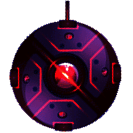
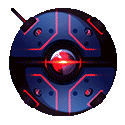
Base structure for Units and Buildings

diff --git a/src/GUI/GamePlaying.py b/src/GUI/GamePlaying.py
@@ -6,63 +6,29 @@ from pygame.rect import Rect
 from pygame.surface import Surface
 
 from GUI.Menu import Menu
+from Utils.Building import Building
+from Utils.Unit import Unit
 
 
 class GamePlaying(Menu):
+    __buildings: list[Building] = []
+    __units: list[Unit] = []
+
     def __init__(self, game):
         Menu.__init__(self, game)
+        # TODO establishing on which team is a player
+        self.__player_team = 0
         self.__fps: int = 60
         self.__background_img: Surface = pygame.transform.scale(pygame.image.load(
             os.path.normpath('resources/img/map_bg.png')), (564, self.game.get_window_height()))
-        self.__x0: int = self.mid_w - self.__background_img.get_width()//2
-
-        self.__red_turret: Surface = pygame.transform.rotate(pygame.transform.scale(pygame.image.load(
-            os.path.normpath('resources/img/red_turret.png')), (120, 120)), 180)
-        self.__blue_turret: Surface = pygame.transform.scale(pygame.image.load(
-            os.path.normpath('resources/img/blue_turret.png')), (120, 120))
-        self.__small_red_turret: Surface = pygame.transform.rotate(pygame.transform.scale(pygame.image.load(
-            os.path.normpath('resources/img/red_turret.png')), (100, 100)), 180)
-        self.__small_blue_turret: Surface = pygame.transform.scale(pygame.image.load(
-            os.path.normpath('resources/img/blue_turret.png')), (100, 100))
-
-        self.__blue_turret_left: Rect = pygame.Rect(
-            self.__x0 + 220 - self.__blue_turret.get_width()//2,
-            self.h(840),
-            self.__blue_turret.get_width(), self.__blue_turret.get_height())
-        self.__blue_turret_right: Rect = pygame.Rect(
-            self.mid_w + (self.mid_w - (self.__x0 + 220 + self.__blue_turret.get_width() // 2)),
-            self.h(840),
-            self.__blue_turret.get_width(), self.__blue_turret.get_height())
-        self.__red_turret_left: Rect = pygame.Rect(
-            self.__x0 + 220 - self.__red_turret.get_width() // 2,
-            self.h(20),
-            self.__red_turret.get_width(), self.__red_turret.get_height())
-        self.__red_turret_right: Rect = pygame.Rect(
-            self.mid_w + (self.mid_w - (self.__x0 + 220 + self.__red_turret.get_width() // 2)),
-            self.h(20),
-            self.__red_turret.get_width(), self.__red_turret.get_height())
-
-        self.__small_blue_turret_left: Rect = pygame.Rect(
-            self.__x0 + 120 - self.__small_blue_turret.get_width() // 2,
-            self.h(740),
-            self.__small_blue_turret.get_width(), self.__small_blue_turret.get_height())
-        self.__small_blue_turret_right: Rect = pygame.Rect(
-            self.mid_w + (self.mid_w - (self.__x0 + 120 + self.__small_blue_turret.get_width() // 2)),
-            self.h(740),
-            self.__small_blue_turret.get_width(), self.__small_blue_turret.get_height())
-        self.__small_red_turret_left: Rect = pygame.Rect(
-            self.__x0 + 120 - self.__small_red_turret.get_width() // 2,
-            self.h(147),
-            self.__small_red_turret.get_width(), self.__small_red_turret.get_height())
-        self.__small_red_turret_right: Rect = pygame.Rect(
-            self.mid_w + (self.mid_w - (self.__x0 + 120 + self.__small_red_turret.get_width() // 2)),
-            self.h(147),
-            self.__small_red_turret.get_width(), self.__small_red_turret.get_height())
+        self.__x0: int = self.mid_w - self.__background_img.get_width() // 2
+        self.create_buildings()
 
     def display_menu(self):
         clock = pygame.time.Clock()
         self.run_display = True
         while self.run_display:
+            self.mouse_pos = pygame.mouse.get_pos()
             clock.tick(self.__fps)
             self.draw()
             self.check_input()
@@ -70,37 +36,31 @@ class GamePlaying(Menu):
             self.blit_screen()
 
     def draw(self):
+        self.game.get_display().fill(self.game.BLACK)
         self.game.get_display().blit(self.__background_img,
                                      (self.mid_w - self.__background_img.get_width() // 2, 0))
-
-        self.game.get_display().blit(self.__blue_turret,
-                                     (self.__blue_turret_left.x, self.__blue_turret_left.y))
-        self.game.get_display().blit(self.__blue_turret,
-                                     (self.__blue_turret_right.x, self.__blue_turret_right.y))
-        self.game.get_display().blit(self.__red_turret,
-                                     (self.__red_turret_left.x, self.__red_turret_left.y))
-        self.game.get_display().blit(self.__red_turret,
-                                     (self.__red_turret_right.x, self.__red_turret_right.y))
-
-        self.game.get_display().blit(self.__small_blue_turret,
-                                     (self.__small_blue_turret_left.x, self.__small_blue_turret_left.y))
-        self.game.get_display().blit(self.__small_blue_turret,
-                                     (self.__small_blue_turret_right.x, self.__small_blue_turret_right.y))
-        self.game.get_display().blit(self.__small_red_turret,
-                                     (self.__small_red_turret_left.x, self.__small_red_turret_left.y))
-        self.game.get_display().blit(self.__small_red_turret,
-                                     (self.__small_red_turret_right.x, self.__small_red_turret_right.y))
-
-        # print(self.__small_red_turret_left.y + self.__small_red_turret.get_height(),
-        # self.__small_blue_turret_left.y, self.game.get_window_height())
+        for building in self.__buildings:
+            building.draw(self.game, self.__player_team)
+        for unit in self.__units:
+            unit.action(self.__buildings, self.__units, self.__player_team)
 
     def check_input(self):
         for event in pygame.event.get():
             if event.type == pygame.KEYDOWN:
                 pass
             elif event.type == pygame.MOUSEBUTTONDOWN:
-                pass
+                self.__units.append(Unit(self.game, self.mouse_pos))
 
-    # Normalizes given height to match the background scaled down to user's screen
-    def h(self, h: int):
-        return int(h/1002 * self.game.get_window_height())
+    def create_buildings(self):
+        self.__buildings.append(Building(True, 0))
+        self.__buildings.append(Building(True, 0, False))
+        self.__buildings.append(Building(True, 1))
+        self.__buildings.append(Building(True, 1, False))
+        self.__buildings.append(Building(False, 0))
+        self.__buildings.append(Building(False, 0, False))
+        self.__buildings.append(Building(False, 1))
+        self.__buildings.append(Building(False, 1, False))
+        for building in self.__buildings:
+            building.set_coordinates(self.game, self.__player_team, self.__x0)
+
+

diff --git a/src/Utils/Unit.py b/src/Utils/Unit.py
@@ -1,0 +1,133 @@
+import pygame
+import pygame.mouse
+import os
+import math
+
+from pygame.rect import Rect
+from pygame.surface import Surface
+from Utils.Building import Building
+from pygame.math import Vector2
+
+
+class Unit:
+    __x0: int = 0
+    __bg_width: int = 564
+    __rect: Rect = None
+    __vector: pygame.Vector2 = pygame.Vector2(0, 0)
+    __target = None
+    __target_in_atk_range: bool = False
+    __seeing_range: int = 50
+
+    def __init__(self, game, start_pos, speed: int = 2, atk_range: int = 20, team: int = 0, left: bool = True):
+        self.__angle: int = 0
+        self.__speed: int = speed
+        self.__atk_range: int = atk_range
+        self.__team: int = team
+        self.__left: bool = left
+        self.__img_size: int = 50
+        self.__pos: pygame.math.Vector2 = pygame.math.Vector2(start_pos)
+        self.__game = game
+
+        self.__img: Surface = pygame.transform.scale(pygame.image.load(
+            os.path.normpath('resources/img/spaceship.png')), (self.__img_size, self.__img_size))
+
+        self.__rect: Rect = pygame.Rect(self.get_x(), self.get_y(), self.__img_size, self.h(self.__img_size, game))
+
+    def find_target(self, buildings: list[Building], units: list, player_team):
+        current_closest_target_dist = 9999999
+        current_closest_target = None
+        current_target_in_atk_range: bool = False
+        current_vector: pygame.math.Vector2 = pygame.math.Vector2(0, 0)
+        if self.__target is not None and self.__target_in_atk_range:
+            # TODO attack enemy
+            # self.attack(self.__target)
+            pass
+        else:
+            for building in buildings:
+                if building.get_team() != player_team:
+                    dist_to_building = self.rect_dist(building.get_rect())
+                    if dist_to_building <= current_closest_target_dist:
+                        current_closest_target = building
+                        current_closest_target_dist = dist_to_building
+                        print(current_closest_target_dist)
+                        if dist_to_building < self.__atk_range:
+                            current_target_in_atk_range = True
+
+            for unit in units:
+                if unit.get_team() != player_team:
+                    dist_to_unit = self.unit_dist(unit)
+                    if dist_to_unit <= current_closest_target_dist and dist_to_unit <= self.__seeing_range:
+                        current_closest_target = unit
+                        current_closest_target_dist = dist_to_unit
+                        if dist_to_unit < self.__atk_range:
+                            current_target_in_atk_range = True
+
+            self.__target = current_closest_target
+            self.__target_in_atk_range = current_target_in_atk_range
+            self.calc_vector(current_closest_target)
+
+    def move(self):
+        if not self.__target_in_atk_range:
+            self.__pos += self.__vector
+            self.__rect.x += self.get_x()
+            self.__rect.y += self.get_y()
+
+    def draw(self):
+        self.__game.get_display().blit(self.__img,
+                                       (self.get_x() - self.__img.get_width() // 2,
+                                        self.get_y() - self.__img.get_height() // 2))
+
+    def action(self, buildings, units, player_team):
+        self.find_target(buildings, units, player_team)
+        self.move()
+        self.draw()
+
+    def calc_vector(self, target):
+        print(target.__class__.__name__)
+        self.__vector = pygame.math.Vector2(target.get_x() - self.get_x(), target.get_y() - self.get_y())
+        pygame.math.Vector2.scale_to_length(self.__vector, self.__speed)
+        print(self.__vector)
+
+    def unit_dist(self, unit):
+        return math.hypot(self.get_x() - unit.get_x(), self.get_y() - unit.get_y())
+
+    def rect_dist(self, rect):
+        x1, y1 = self.__rect.topleft
+        x1b, y1b = self.__rect.bottomright
+        x2, y2 = rect.topleft
+        x2b, y2b = rect.bottomright
+        left = x2b < x1
+        right = x1b < x2
+        top = y2b < y1
+        bottom = y1b < y2
+        if bottom and left:
+            return math.hypot(x2b - x1, y2 - y1b)
+        elif left and top:
+            return math.hypot(x2b - x1, y2b - y1)
+        elif top and right:
+            return math.hypot(x2 - x1b, y2b - y1)
+        elif right and bottom:
+            return math.hypot(x2 - x1b, y2 - y1b)
+        elif left:
+            return x1 - x2b
+        elif right:
+            return x2 - x1b
+        elif top:
+            return y1 - y2b
+        elif bottom:
+            return y2 - y1b
+        else:
+            return 0.
+
+    # Normalizes given height to match the background scaled down to user's screen
+    def h(self, h: int, game):
+        return int(h / 992 * game.get_window_height())
+
+    def get_x(self):
+        return self.__pos.x
+
+    def get_y(self):
+        return self.__pos.y
+
+    def get_team(self):
+        return self.__team

diff --git a/src/Utils/Building.py b/src/Utils/Building.py
@@ -1,0 +1,93 @@
+import pygame
+import pygame.mouse
+import os
+
+from pygame.rect import Rect
+from pygame.surface import Surface
+
+
+class Building:
+    __x0: int = 0
+    __bg_width: int = 564
+    __rect: Rect = None
+    __x: int = None
+    __y: int = None
+
+    def __init__(self, big: bool = False, team: int = 0, left: bool = True):
+        self.__angle: int = 0
+        self.__team: int = team
+        self.__left: bool = left
+        self.__big: bool = big
+        if big:
+            self.__building_size = 110
+        else:
+            self.__building_size = 90
+
+        self.__blue_img: Surface = pygame.transform.rotate(pygame.transform.scale(pygame.image.load(
+            os.path.normpath('resources/img/blue_turret.png')), (self.__building_size, self.__building_size)), -45)
+        self.__red_img: Surface = pygame.transform.rotate(pygame.transform.scale(pygame.image.load(
+            os.path.normpath('resources/img/red_turret.png')), (self.__building_size, self.__building_size)), 135)
+
+    def draw(self, game, player_team: int = 0):
+        self.__angle += 1
+
+        if self.__rect is None:
+            self.__rect = pygame.Rect(self.__x, self.__y, self.__building_size, self.h(self.__building_size, game))
+        # Displaying blue turret
+        if self.__team == player_team:
+            temp = pygame.transform.rotate(self.__blue_img, self.__angle)
+            game.get_display().blit(temp, (self.__x-temp.get_width()//2, self.__y-temp.get_height()//2))
+        # Displaying red turret
+        else:
+            temp = pygame.transform.rotate(self.__red_img, self.__angle)
+            game.get_display().blit(temp, (self.__x-temp.get_width()//2, self.__y-temp.get_height()//2))
+
+    def set_coordinates(self, game, player_team: int = 0, x0: int = 0):
+        if x0:
+            self.__x0 = x0
+        big_x = 200
+        small_x = 117
+        # Establishing blue turret's coordinates
+        if self.__team == player_team:
+            if self.__big:
+                self.__y = self.h(918, game)
+                if self.__left:
+                    self.__x = self.__x0 + big_x
+                else:
+                    self.__x = self.__x0 + self.__bg_width - 200
+            else:
+                self.__y = self.h(800, game)
+                if self.__left:
+                    self.__x = self.__x0 + small_x
+                else:
+                    self.__x = self.__x0 + self.__bg_width - small_x
+        # Establishing red turret's coordinates
+        else:
+            if self.__big:
+                self.__y = self.h(74, game)
+                if self.__left:
+                    self.__x = self.__x0 + big_x
+                else:
+                    self.__x = self.__x0 + self.__bg_width - 200
+            else:
+                self.__y = self.h(192, game)
+                if self.__left:
+                    self.__x = self.__x0 + small_x
+                else:
+                    self.__x = self.__x0 + self.__bg_width - small_x
+
+    # Normalizes given height to match the background scaled down to user's screen
+    def h(self, h: int, game):
+        return int(h / 992 * game.get_window_height())
+
+    def get_rect(self):
+        return self.__rect
+
+    def get_team(self):
+        return self.__team
+
+    def get_x(self):
+        return self.__x
+
+    def get_y(self):
+        return self.__y

diff --git a/src/GUI/PlayMenu.py b/src/GUI/PlayMenu.py
@@ -41,6 +41,10 @@ class NewGameMenu(Menu):
                                                   self.title_font_size * 10),
                                              label_text="Start game", font=self.game.get_font(self.text_font_size),
                                              color="WHITE", hovering_color="Yellow", is_visible=False),
+                                      Button(pos=(self.game.get_window_width() / 2,
+                                                  self.title_font_size * 11),
+                                             label_text="Demo", font=self.game.get_font(self.text_font_size//2),
+                                             color="WHITE", hovering_color="Yellow", is_visible=True),
                                       ]
 
         self.text_input_array: list[TextInput] = [TextInput(pos=(self.mid_w, self.title_font_size * 6),
@@ -150,6 +154,11 @@ class NewGameMenu(Menu):
                         self.run_display = False
                         self.game.curr_menu = self.game.game_playing
                         self.game.curr_menu.display_menu()
+                elif self.buttons[4].cursor_hovers(self.mouse_pos):
+                    # Demo start button
+                    self.run_display = False
+                    self.game.curr_menu = self.game.game_playing
+                    self.game.curr_menu.display_menu()
                 for text_input in self.text_input_array:
                     if text_input.cursor_hovers(self.mouse_pos):
                         text_input.set_clicked(True)

diff --git a/src/core/client.py b/src/core/client.py
@@ -33,7 +33,7 @@ class Client(Thread):
             return False
 
     def receive(self, message) -> bool:
-        debug("Client received mesage")
+        debug("Client received message")
         if message.get_type() == MessageType.LOBBY_STATE:
             message: LobbyStateMessage = message
             debug(f"Client received lobby list: {[p.get_username() for p in message.get_players()]}")

diff --git a/src/core/server.py b/src/core/server.py
@@ -52,7 +52,7 @@ class Server(Thread, MessageReceiver):
         info(f"Player {player.get_name()} has successfully joined the lobby!")
 
     def receive(self, message: BasicMessage) -> bool:
-        debug("Server received mesage")
+        debug("Server received message")
         return True
 
     def get_lobby_list(self) -> list[Identity]:
